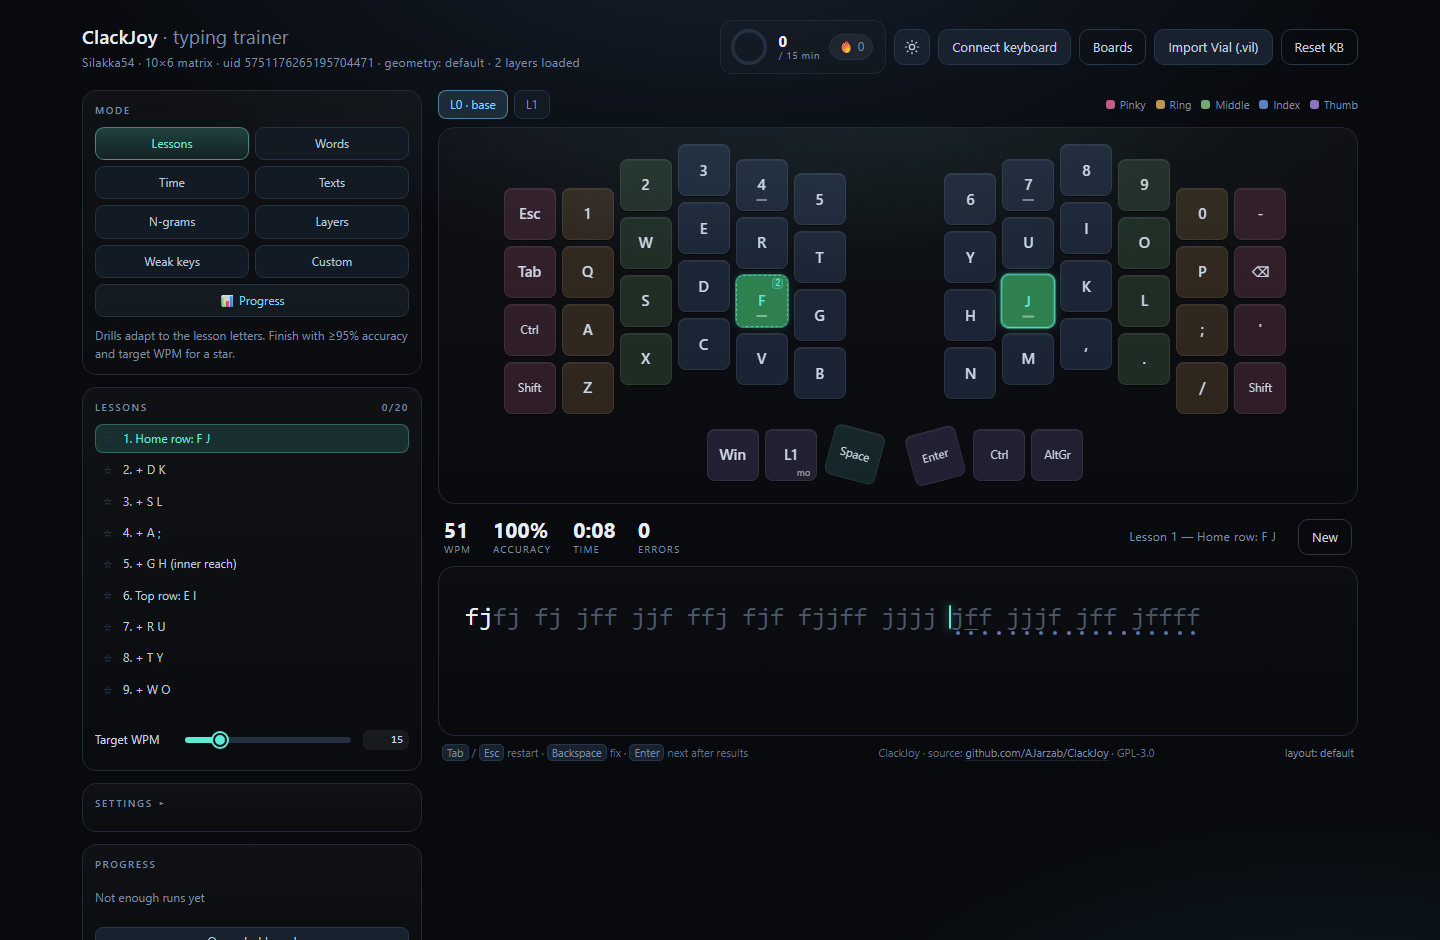
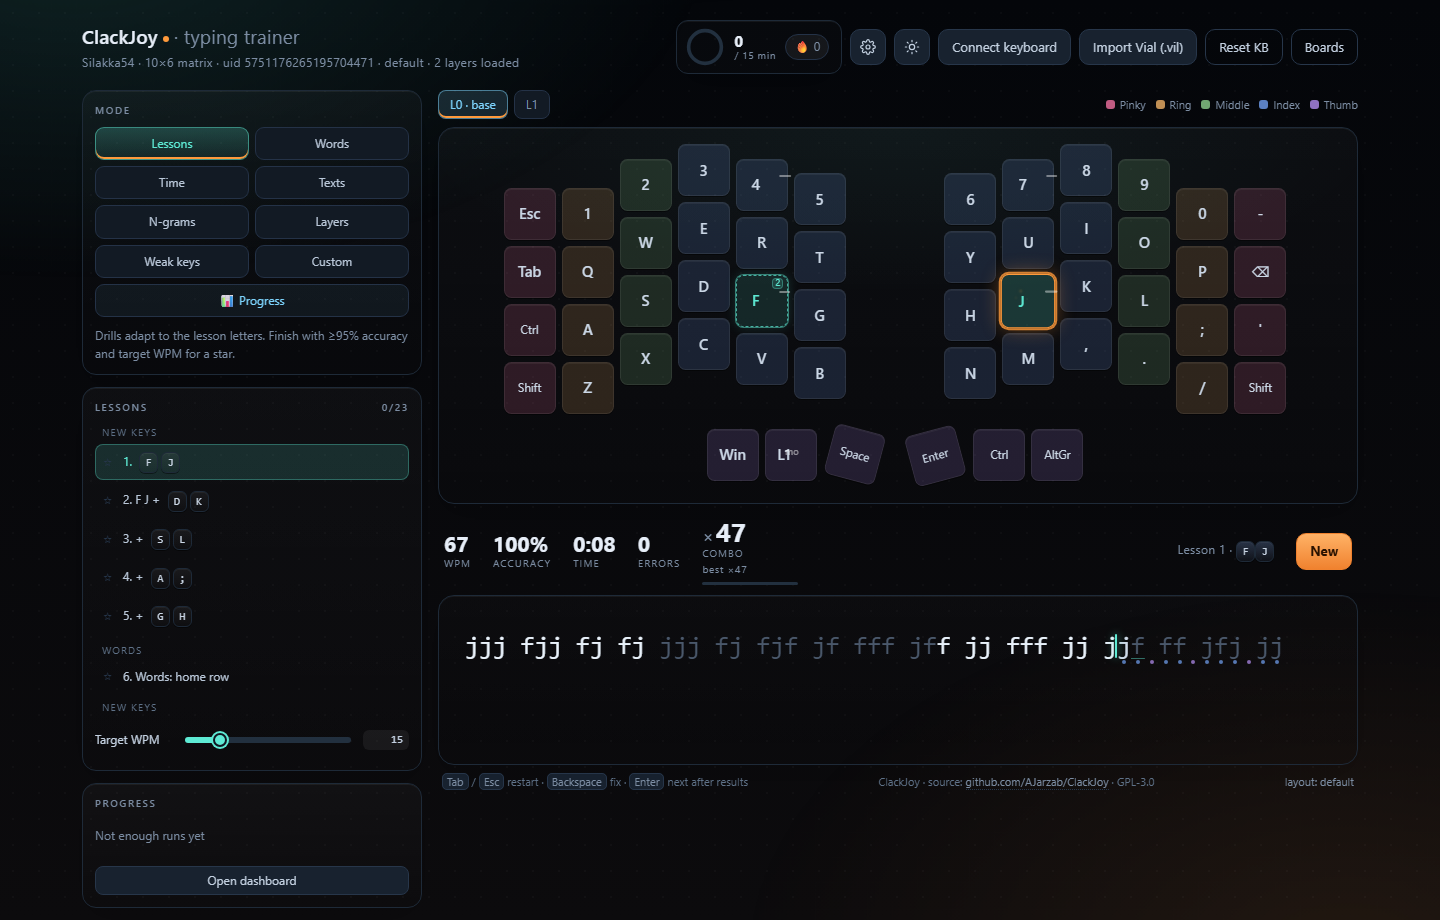
Accent-following ambient background; refresh README screenshot
- fixed background layer: teal and orange blooms, vignette, dot grain,
  slow transform-only drift, static under reduced motion
- raised panels via inset highlight and soft shadow, fills unchanged
- new screenshot showing keycaps and the combo counter

diff --git a/index.html b/index.html
@@ -111,6 +111,17 @@
   --speed-cold:120,220,255;
   --speed-hot:255,154,60;
 
+  /* ambient page background (fixed layer) */
+  --bg-top:#04060a;
+  --bg-bottom:#0c0b0d;
+  --bg-glow-teal:rgba(94,234,212,.13);
+  --bg-glow-orange:rgba(255,154,60,.09);
+  --bg-glow-head:rgba(94,234,212,.055);
+  --bg-vignette:rgba(0,0,0,.55);
+  --bg-dot:rgba(255,255,255,.028);
+  --raise-hi:rgba(255,255,255,.055);
+  --raise-shadow:rgba(0,0,0,.28);
+
   --radius:14px;
 }
 
@@ -214,6 +225,17 @@
   --f-thumb:112,64,190;
   --speed-cold:30,86,180;
   --speed-hot:194,65,12;
+
+  /* ambient page background (fixed layer) */
+  --bg-top:#fcfbf9;
+  --bg-bottom:#eef2f6;
+  --bg-glow-teal:rgba(15,118,110,.065);
+  --bg-glow-orange:rgba(194,65,12,.05);
+  --bg-glow-head:rgba(15,118,110,.035);
+  --bg-vignette:rgba(55,48,40,.07);
+  --bg-dot:rgba(30,42,56,.03);
+  --raise-hi:rgba(255,255,255,.95);
+  --raise-shadow:rgba(16,24,32,.06);
 }
 
 @media (prefers-color-scheme: light){
@@ -305,6 +327,17 @@
     --f-thumb:112,64,190;
     --speed-cold:30,86,180;
     --speed-hot:194,65,12;
+
+    /* ambient page background (fixed layer) */
+    --bg-top:#fcfbf9;
+    --bg-bottom:#eef2f6;
+    --bg-glow-teal:rgba(15,118,110,.065);
+    --bg-glow-orange:rgba(194,65,12,.05);
+    --bg-glow-head:rgba(15,118,110,.035);
+    --bg-vignette:rgba(55,48,40,.07);
+    --bg-dot:rgba(30,42,56,.03);
+    --raise-hi:rgba(255,255,255,.95);
+    --raise-shadow:rgba(16,24,32,.06);
   }
 }
 /* ============================================================
@@ -315,10 +348,7 @@
 html,body{margin:0;padding:0}
 body{
   min-height:100vh;
-  background:
-    radial-gradient(1100px 620px at 50% -12%, var(--bg-1) 0%, transparent 62%),
-    radial-gradient(900px 500px at 92% 110%, var(--bg-2) 0%, transparent 60%),
-    var(--bg);
+  background:var(--bg);
   color:var(--text);
   font:14px/1.45 system-ui, -apple-system, "Segoe UI", Roboto, Helvetica, Arial, sans-serif;
   -webkit-font-smoothing:antialiased;
@@ -326,6 +356,42 @@ body{
 }
 @media (prefers-reduced-motion: reduce){
   body{transition:none}
+}
+
+/* ============================================================
+   Ambient background (fixed, non-scrolling)
+   ============================================================ */
+.bg{
+  position:fixed;inset:0;z-index:-1;pointer-events:none;overflow:hidden;
+  background:linear-gradient(180deg,var(--bg-top),var(--bg-bottom));
+}
+.bg::before{
+  content:"";position:absolute;inset:-12%;
+  background:
+    radial-gradient(52% 44% at 16% 6%, var(--bg-glow-teal), transparent 68%),
+    radial-gradient(48% 46% at 86% 94%, var(--bg-glow-orange), transparent 70%),
+    radial-gradient(46% 26% at 46% -6%, var(--bg-glow-head), transparent 72%),
+    radial-gradient(120% 105% at 50% 50%, transparent 52%, var(--bg-vignette) 100%);
+  animation:bgDrift 76s ease-in-out infinite alternate;
+  will-change:transform;
+}
+.bg::after{
+  content:"";position:absolute;inset:0;
+  background-image:radial-gradient(var(--bg-dot) 1px, transparent 1px);
+  background-size:26px 26px;
+}
+@keyframes bgDrift{
+  from{transform:translate3d(-1.6%,-1.2%,0) scale(1.02)}
+  to{transform:translate3d(1.4%,1.4%,0) scale(1.06)}
+}
+@media (prefers-reduced-motion: reduce){
+  .bg::before{animation:none;will-change:auto}
+}
+@media print{
+  .bg, body.combo-blaze::before{display:none}
+}
+.block,.daily,.kbwrap,.typewrap{
+  box-shadow:inset 0 1px 0 var(--raise-hi), 0 10px 26px -24px var(--raise-shadow);
 }
 button,select,input,textarea{font:inherit;color:inherit}
 h1,h2,h3{margin:0;font-weight:600}
@@ -840,6 +906,8 @@ body.combo-blaze::before{
   pointer-events:none;
   background:radial-gradient(60% 110% at 50% 100%, rgba(var(--accent-2-rgb),.16), transparent 72%);
 }
+/* keep the combo blaze glow above the ambient background layer */
+body.combo-blaze .bg{z-index:-2}
 @media (prefers-reduced-motion: reduce){
   .key[class*="combo-"],.key.combo-3::before,.key.combo-4::after,
   .key.combo-5::after,.key.combo-6::after,.kbwrap.combo-5,.kbwrap.combo-6,
@@ -1086,6 +1154,7 @@ body.dragging::after{
 </style>
 </head>
 <body>
+<div class="bg" aria-hidden="true"></div>
 <div class="app">
   <header>
     <div class="brand">
